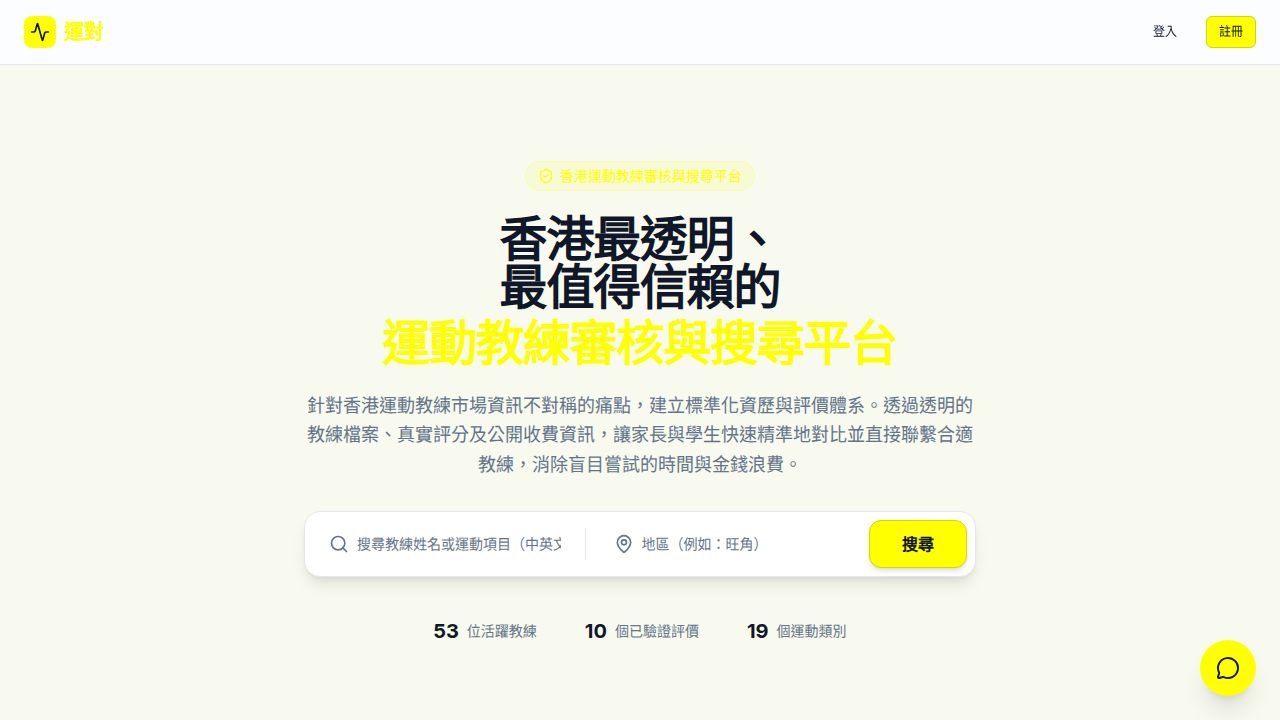
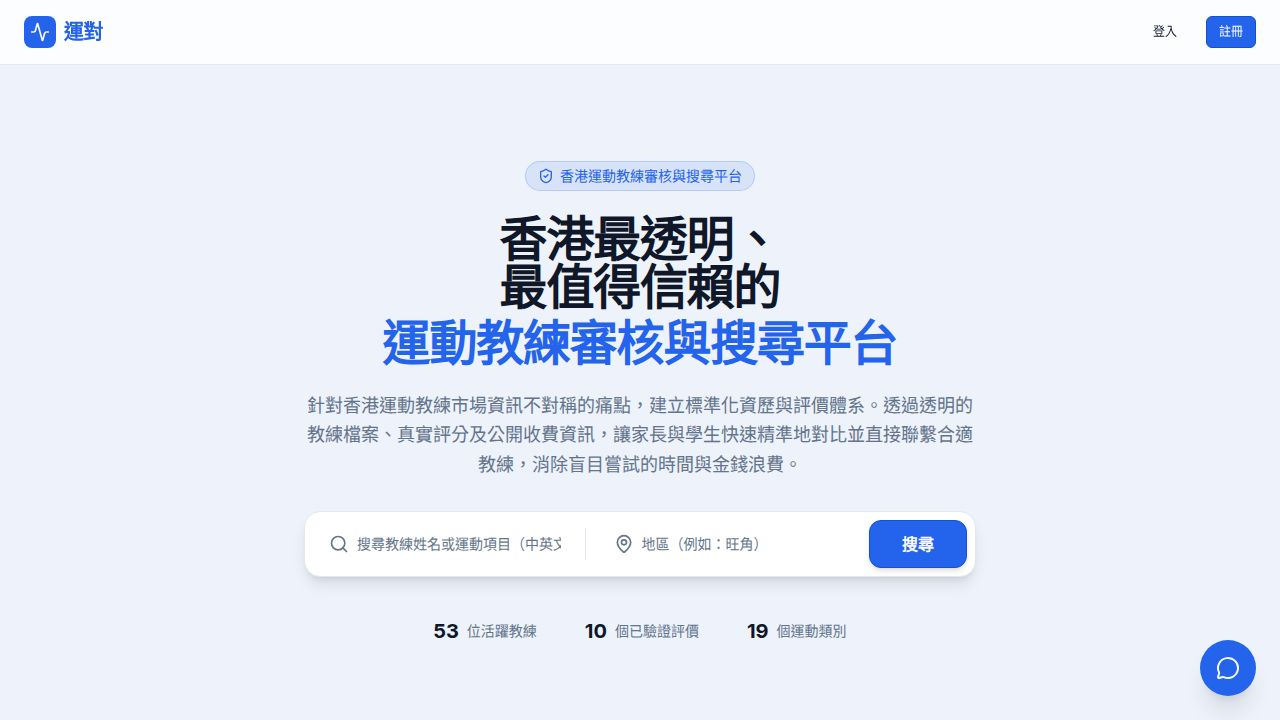
Update coach registration with per-entry qualifications and redirects
Refactors the coach registration form to support per-entry qualification uploads and implements an auto-redirect to the onboarding page for new users.

Replit-Commit-Author: Agent
Replit-Commit-Session-Id: 1572d939-14e5-4214-a1c7-2a4edc35401c
Replit-Commit-Checkpoint-Type: full_checkpoint
Replit-Commit-Event-Id: 93accbe8-b51c-48d9-8289-193497556061
Replit-Commit-Screenshot-Url: https://storage.googleapis.com/screenshot-production-us-central1/e1102b41-e8b1-41eb-ad71-4b9ecfc2f09f/1572d939-14e5-4214-a1c7-2a4edc35401c/Ssk90rY
Replit-Helium-Checkpoint-Created: true

diff --git a/artifacts/coach-marketplace/src/pages/coach-register.tsx b/artifacts/coach-marketplace/src/pages/coach-register.tsx
@@ -150,27 +150,6 @@ export default function CoachRegister() {
     if (fileInputRef.current) fileInputRef.current.value = "";
   };
 
-  const handleQualProofChange = async (e: React.ChangeEvent<HTMLInputElement>) => {
-    const file = e.target.files?.[0];
-    if (!file) return;
-    if (file.size > 5 * 1024 * 1024) {
-      toast({ title: "檔案太大", description: "請上傳 5MB 以內的圖片。", variant: "destructive" });
-      return;
-    }
-    try {
-      const dataUrl = await compressImage(file);
-      setQualProofPreview(dataUrl);
-      form.setValue("qualificationProofUrl", dataUrl);
-    } catch {
-      toast({ title: "無法讀取圖片", description: "請選擇其他檔案再試。", variant: "destructive" });
-    }
-  };
-
-  const removeQualProof = () => {
-    setQualProofPreview("");
-    form.setValue("qualificationProofUrl", "");
-    if (qualProofRef.current) qualProofRef.current.value = "";
-  };
 
   const onSubmit = (data: CoachFormValues) => {
     if (coachTypes.length === 0) {
@@ -204,8 +183,7 @@ export default function CoachRegister() {
         profileImageUrl: data.profileImageUrl || undefined,
         packageDetails: data.packageDetails || undefined,
         whatsappNumber,
-        qualifications: qualList.filter(q => q.trim()).join("\n") || undefined,
-        qualificationProofUrl: data.qualificationProofUrl || undefined,
+        qualifications: JSON.stringify(qualList.filter(q => q.text.trim()).map(({ id: _id, ...rest }) => rest)) || undefined,
         pricingPlans: JSON.stringify(pricingRows.map(({ id: _id, ...r }) => r)),
       } as any
     }, {
@@ -445,27 +423,59 @@ export default function CoachRegister() {
                       {coachTypeError && <p className="text-sm text-destructive">{coachTypeError}</p>}
                     </div>
 
-                    {/* Qualifications multi-row */}
-                    <div className="space-y-2">
+                    {/* Qualifications multi-row with per-entry upload */}
+                    <div className="space-y-3">
                       <div>
-                        <p className="text-sm font-medium leading-none mb-1">資歷</p>
-                        <p className="text-xs text-muted-foreground">每行填寫一項認證、資格或學歷</p>
+                        <p className="text-sm font-medium leading-none mb-1">資歷 <span className="text-destructive">*</span></p>
+                        <p className="text-xs text-muted-foreground">每行填寫一項認證、資格或學歷，並可上傳對應證書圖片供管理員審核</p>
                       </div>
                       {qualList.map((q, idx) => (
-                        <div key={idx} className="flex items-center gap-2">
-                          <Input
-                            value={q}
-                            onChange={e => setQualList(prev => prev.map((v, i) => i === idx ? e.target.value : v))}
-                            placeholder={idx === 0 ? "例如：香港游泳教練會一級教練" : "例如：ACE-CPT 認證私人教練"}
+                        <div key={q.id} className="rounded-xl border bg-slate-50/60 p-3 space-y-2">
+                          <div className="flex items-center gap-2">
+                            <Input
+                              value={q.text}
+                              onChange={e => updateQual(q.id, { text: e.target.value })}
+                              placeholder={idx === 0 ? "例如：香港游泳教練會一級教練" : "例如：ACE-CPT 認證私人教練"}
+                              className="bg-white"
+                            />
+                            <button
+                              type="button"
+                              onClick={() => setQualList(prev => prev.length > 1 ? prev.filter(e => e.id !== q.id) : prev)}
+                              disabled={qualList.length === 1}
+                              className="p-2 rounded-lg text-muted-foreground hover:text-destructive hover:bg-destructive/10 transition-colors disabled:opacity-30 disabled:cursor-not-allowed shrink-0"
+                            >
+                              <Trash2 className="w-4 h-4" />
+                            </button>
+                          </div>
+
+                          {/* Per-entry proof upload */}
+                          {q.proofUrl ? (
+                            <div className="relative w-full max-w-xs">
+                              <img src={q.proofUrl} alt="資歷證明" className="w-full rounded-lg border object-cover max-h-32" />
+                              <button
+                                type="button"
+                                onClick={() => updateQual(q.id, { proofUrl: "" })}
+                                className="absolute top-1.5 right-1.5 bg-white/90 hover:bg-white rounded-full p-1 shadow border"
+                              >
+                                <X className="w-3 h-3 text-destructive" />
+                              </button>
+                            </div>
+                          ) : (
+                            <div
+                              className="flex items-center gap-2 border border-dashed border-border rounded-lg px-3 py-2 cursor-pointer hover:border-primary/50 hover:bg-white transition-all"
+                              onClick={() => qualFileRefs.current[idx]?.click()}
+                            >
+                              <Upload className="w-4 h-4 text-muted-foreground shrink-0" />
+                              <p className="text-xs text-muted-foreground">上傳證書圖片（選填，PNG / JPG）</p>
+                            </div>
+                          )}
+                          <input
+                            ref={el => { qualFileRefs.current[idx] = el; }}
+                            type="file"
+                            accept="image/*"
+                            className="hidden"
+                            onChange={e => handleQualFileChange(q.id, e)}
                           />
-                          <button
-                            type="button"
-                            onClick={() => setQualList(prev => prev.length > 1 ? prev.filter((_, i) => i !== idx) : prev)}
-                            disabled={qualList.length === 1}
-                            className="p-2 rounded-lg text-muted-foreground hover:text-destructive hover:bg-destructive/10 transition-colors disabled:opacity-30 disabled:cursor-not-allowed shrink-0"
-                          >
-                            <Trash2 className="w-4 h-4" />
-                          </button>
                         </div>
                       ))}
                       <Button
@@ -473,46 +483,11 @@ export default function CoachRegister() {
                         variant="outline"
                         size="sm"
                         className="gap-2"
-                        onClick={() => setQualList(prev => [...prev, ""])}
+                        onClick={() => setQualList(prev => [...prev, newQual()])}
                       >
                         <Plus className="w-4 h-4" /> 新增資歷
                       </Button>
                     </div>
-
-                    {/* Qualification proof upload */}
-                    <FormField
-                      control={form.control}
-                      name="qualificationProofUrl"
-                      render={() => (
-                        <FormItem>
-                          <FormLabel>資歷證明文件</FormLabel>
-                          <FormDescription>上傳相關牌照、證書或認證的圖片（選填，PNG / JPG，上限 5MB）。文件僅供管理員審核用途，不會公開展示。</FormDescription>
-                          <FormControl>
-                            <div>
-                              {qualProofPreview ? (
-                                <div className="relative w-full max-w-sm">
-                                  <img src={qualProofPreview} alt="資歷證明" className="w-full rounded-xl border object-cover max-h-48" />
-                                  <button type="button" onClick={removeQualProof} className="absolute top-2 right-2 bg-white/90 hover:bg-white rounded-full p-1 shadow border">
-                                    <X className="w-4 h-4 text-destructive" />
-                                  </button>
-                                </div>
-                              ) : (
-                                <div
-                                  className="flex flex-col items-center justify-center gap-2 border-2 border-dashed border-border rounded-xl p-6 cursor-pointer hover:border-primary/50 hover:bg-slate-50 transition-all"
-                                  onClick={() => qualProofRef.current?.click()}
-                                >
-                                  <Upload className="w-6 h-6 text-muted-foreground" />
-                                  <p className="text-sm text-muted-foreground text-center">點擊上傳資歷證明圖片</p>
-                                  <p className="text-xs text-muted-foreground">PNG / JPG，上限 5MB</p>
-                                </div>
-                              )}
-                              <input ref={qualProofRef} type="file" accept="image/*" className="hidden" onChange={handleQualProofChange} />
-                            </div>
-                          </FormControl>
-                          <FormMessage />
-                        </FormItem>
-                      )}
-                    />
 
                     <FormField
                       control={form.control}

diff --git a/artifacts/coach-marketplace/src/App.tsx b/artifacts/coach-marketplace/src/App.tsx
@@ -3,7 +3,7 @@ import { QueryClientProvider, useQueryClient } from "@tanstack/react-query";
 import { Toaster } from "@/components/ui/toaster";
 import { TooltipProvider } from "@/components/ui/tooltip";
 import { ClerkProvider, SignIn, SignUp, Show, useClerk, useAuth } from '@clerk/react';
-import { useEffect, useRef } from "react";
+import { useEffect, useRef, useState } from "react";
 import { queryClient } from "@/lib/queryClient";
 import { setAuthTokenGetter } from "@workspace/api-client-react";
 
@@ -92,6 +92,37 @@ function ClerkAuthTokenSetup() {
   return null;
 }
 
+const SKIP_ONBOARDING_PATHS = ["/onboarding", "/sign-in", "/sign-up", "/coach/register", "/admin"];
+
+function OnboardingRedirect() {
+  const { isSignedIn, isLoaded } = useAuth();
+  const { getToken } = useAuth();
+  const [location, navigate] = useLocation();
+  const [checked, setChecked] = useState(false);
+
+  useEffect(() => {
+    if (!isLoaded || !isSignedIn) { setChecked(true); return; }
+    const clean = location.split("?")[0];
+    if (SKIP_ONBOARDING_PATHS.some(p => clean === p || clean.startsWith(p + "/"))) { setChecked(true); return; }
+
+    (async () => {
+      try {
+        const token = await getToken();
+        const res = await fetch(`${import.meta.env.BASE_URL.replace(/\/$/, "")}/api/user/profile`, {
+          headers: { Authorization: `Bearer ${token}` },
+        });
+        const data = await res.json();
+        if (!data.profile || !data.profile.onboardingCompleted) {
+          navigate("/onboarding");
+        }
+      } catch {}
+      setChecked(true);
+    })();
+  }, [isLoaded, isSignedIn, location]);
+
+  return null;
+}
+
 function ClerkProviderWithRoutes() {
   const [, setLocation] = useLocation();
 
@@ -106,6 +137,7 @@ function ClerkProviderWithRoutes() {
         <ClerkQueryClientCacheInvalidator />
         <ClerkAuthTokenSetup />
         <TooltipProvider>
+          <OnboardingRedirect />
           <Switch>
             <Route path="/" component={Home} />
             <Route path="/coaches/:id" component={CoachProfile} />

diff --git a/artifacts/coach-marketplace/src/components/support-widget.tsx b/artifacts/coach-marketplace/src/components/support-widget.tsx
@@ -49,7 +49,7 @@ export function SupportWidget() {
             </div>
           </CardHeader>
           <CardContent className="p-0">
-            <div className="p-3 bg-yellow-50 border-b">
+            <div className="p-3 bg-blue-50 border-b">
               <p className="text-xs text-muted-foreground">👋 有咩可以幫到你？</p>
             </div>
             <div className="divide-y max-h-72 overflow-y-auto">
@@ -57,12 +57,12 @@ export function SupportWidget() {
                 <div key={i}>
                   <button
                     onClick={() => setExpandedFaq(expandedFaq === i ? null : i)}
-                    className="w-full flex items-center justify-between p-3 text-left hover:bg-yellow-50/50 transition-colors">
+                    className="w-full flex items-center justify-between p-3 text-left hover:bg-blue-50/50 transition-colors">
                     <span className="text-sm font-medium pr-2">{faq.q}</span>
                     <ChevronRight className={`h-4 w-4 flex-shrink-0 text-muted-foreground transition-transform ${expandedFaq === i ? "rotate-90" : ""}`} />
                   </button>
                   {expandedFaq === i && (
-                    <div className="px-3 pb-3 text-xs text-muted-foreground bg-yellow-50/30 leading-relaxed">
+                    <div className="px-3 pb-3 text-xs text-muted-foreground bg-blue-50/30 leading-relaxed">
                       {faq.a}
                     </div>
                   )}

diff --git a/artifacts/coach-marketplace/src/pages/onboarding.tsx b/artifacts/coach-marketplace/src/pages/onboarding.tsx
@@ -99,7 +99,7 @@ export default function Onboarding() {
   const currentStep = STEPS[step - 1];
 
   return (
-    <div className="min-h-screen bg-gradient-to-br from-yellow-50 via-white to-yellow-50 flex flex-col items-center justify-center px-4 py-10">
+    <div className="min-h-screen bg-gradient-to-br from-blue-50 via-white to-blue-50 flex flex-col items-center justify-center px-4 py-10">
       <div className="w-full max-w-lg">
         <div className="text-center mb-8">
           <div className="inline-flex items-center gap-2 mb-4">